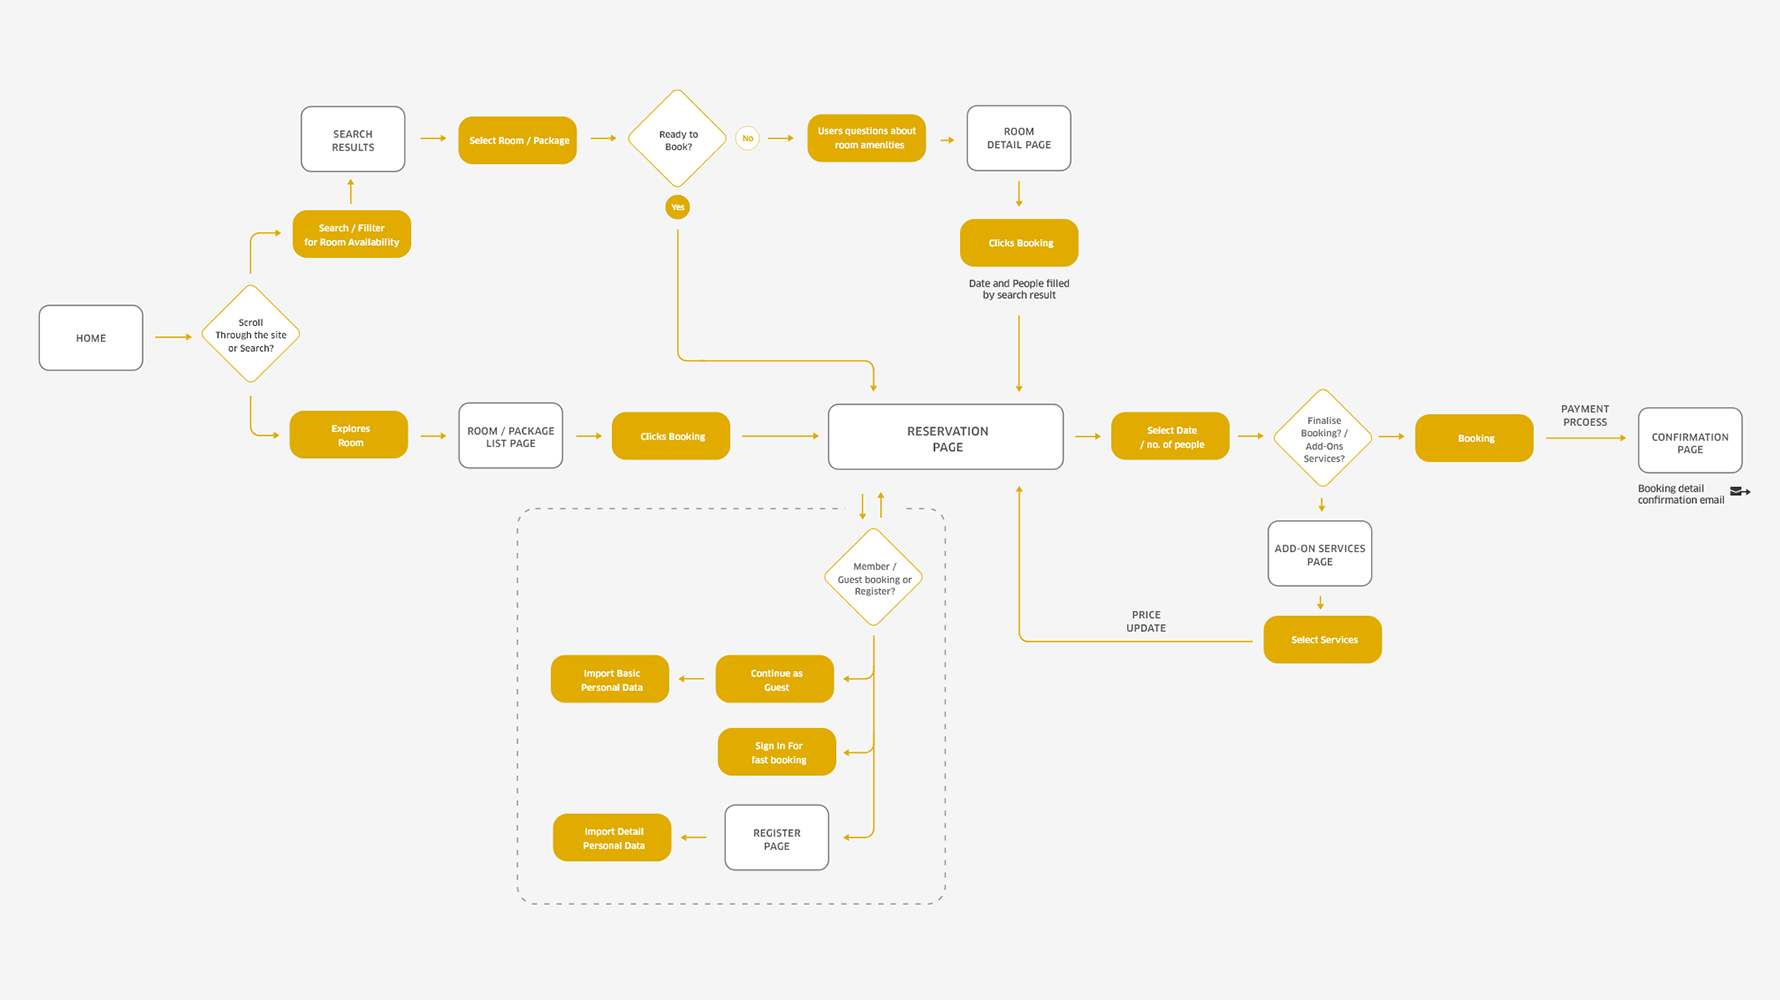
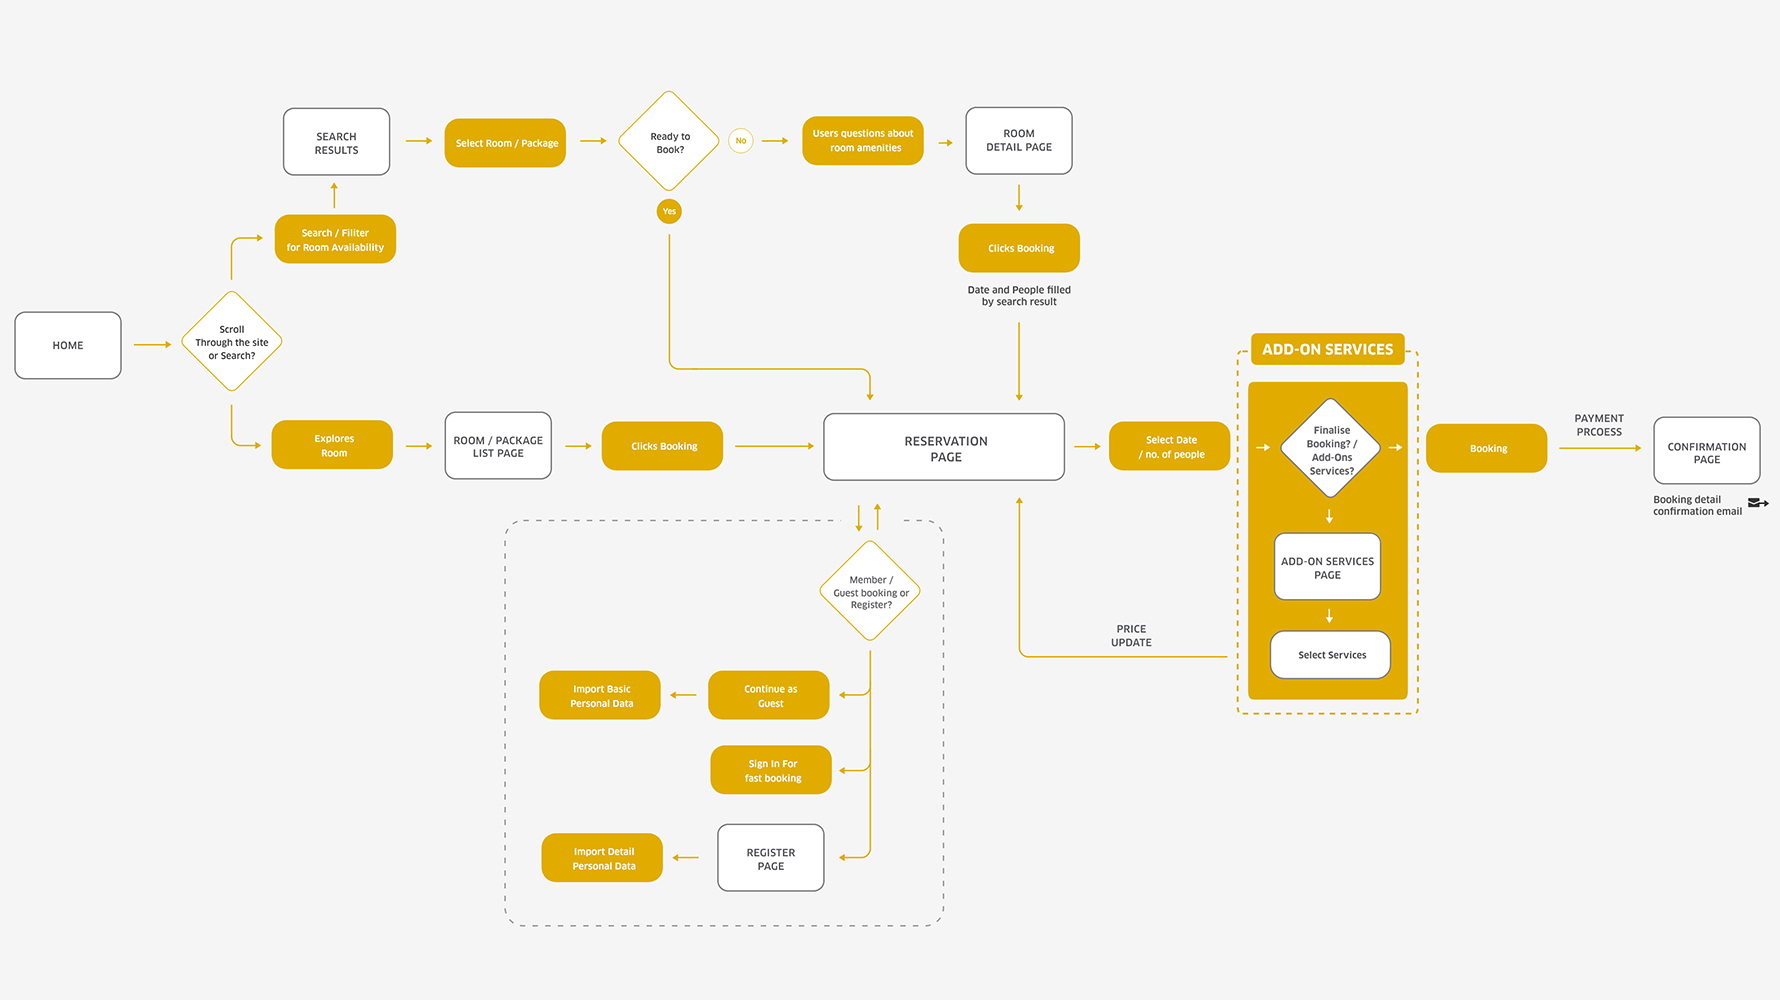
170224

diff --git a/project/goldcoasthk.html b/project/goldcoasthk.html
@@ -221,22 +221,18 @@
   <div class="copy-width spacing-medium">
     <p class="observable h2 spacing-sub-title txtpoint">Ideating the <span class="txtpoint jy-color"> Design
         Approach</span></p>
-    <p class="observable h1 spacing-sub-title txtpoint">Discover</p>
+    <p class="observable h1 spacing-sub-title txtpoint">Research</p>
 
     <!--<p class="observable spacing-small">We identify the design objectives and considerations based on the data
           provided by the client.</p>-->
 
-    <p class="observable body spacing-small">The core process was booking. These will be our focus when planning the design objectives for the project after brainstorming with my team. First step is to know more about the current
-      hotel what area to improve, We needed to get an overview of how user book rooms on hotel sites. As I had no
-      specialist knowledge of hotel booking processes, I run usability tests for a deeper look at the best patterns of
-      the booking journey through research to several hotels. Driven to create simplicity booking proccess that helped
-      users with an task.</p>
+    <p class="observable body spacing-small">The core process was booking. These will be our focus when planning the design objectives for the project after brainstorming with my team. First step is to know  how users book rooms along with other services. I run usability tests for a deeper look at the best patterns of the booking journey through research to several hotels and what touch point abandoned form users. <!--Driven to create simplicity booking proccess that helped users with an task.--></p>
   </div>
 
 
   <div class="copy-width spacing-medium">
     <p class="observable h1 spacing-sub-title txtpoint">New Booking Flow</p>
-    <p class="observable body spacing-sub-title">In our proposal, I honed in on refining the flow and addon services feature to provide flexiable assistance to users during room booking. We understand that hotels also provide a wide-range services for family trip other than just selling rooms. We also have to include not only the users booking experience, but also the hotel business.</p>
+    <p class="observable body spacing-sub-title">We understood that hotels offer a wide range of services for family travelling in addition to selling rooms. We had to consider not only the user's booking experience, but also the hotel's business. In our proposal, I focused on refining the process and addons service features to provide users with flexibility and choice when booking a room.</p>
   </div>
 
   <div class="body-width-small observable spacing-medium">
@@ -249,7 +245,7 @@
 
 
   <div class="copy-width spacing-small">
-    <p class="observable h1 spacing-sub-title txtpoint">Proposed Add-ons Services Task Flow</p>
+    <p class="observable h1 spacing-sub-title txtpoint">Proposed Add-ons Services in right spot</p>
 
     <p class="observable body spacing-small">The most important challenge in adding this feature is finding the right
       spot. Because the feature is just subsidiary and not mandatory. <b class="jy-color">We need to put it on the phase
@@ -454,13 +450,13 @@
 
 
   <div class="copy-width spacing-large">
-    <p class="observable h1 spacing-sub-title">Concise Landing improve accessibility</p>
-    <p class="observable body spacing-small">Created rapid search bar is mainly catered for accommodation when the guest
+    <p class="observable h1 spacing-sub-title">Landing improves conversion rates</p>
+    <p class="observable body spacing-sub-title">Created rapid search bar is mainly catered for accommodation when the guest
       landing. Any prospective guest who is exploring a hotel website will want to rapid know if there is availability
       during their travel dates for them to stay
       there.<!--Book improve case study : https://www.apurvachinta.com/golftripzredesign--></p>
 
-    <p class="observable body spacing-small">Beside, Entire design are clearly laid out and provide a balance of hotel
+    <p class="observable body spacing-sub-title">Beside, Entire design are clearly laid out and provide a balance of hotel
       information and visual, but are still informative and feel vibrant. Time is precious and a user is not going to
       enjoy excessively scrolling for hotel
       information.<!--Book improve case study : https://www.apurvachinta.com/golftripzredesign--></p>
@@ -488,10 +484,8 @@
 
 
   <div class="copy-width spacing-small">
-    <p class="observable h1 spacing-sub-title">Final Design Screen</p>
-    <p class="observable body spacing-sub-title">After several iterations and improvements, these are the some final
-      look for website. These screens here are what the final product should look like after being developed and coded.
-    </p>
+    <p class="observable h1 spacing-sub-title">Final Design</p>
+    <p class="observable body spacing-sub-title">I collaborated with Engineering to smoothly transition our system into production, focusing on key UI elements like color styles and basic components initially.  After several iterations and improvements key UI elements. This boosted consistency in the brand. These screens here are what the final outcome should look like after being developed.</p>
   </div>
 
 
